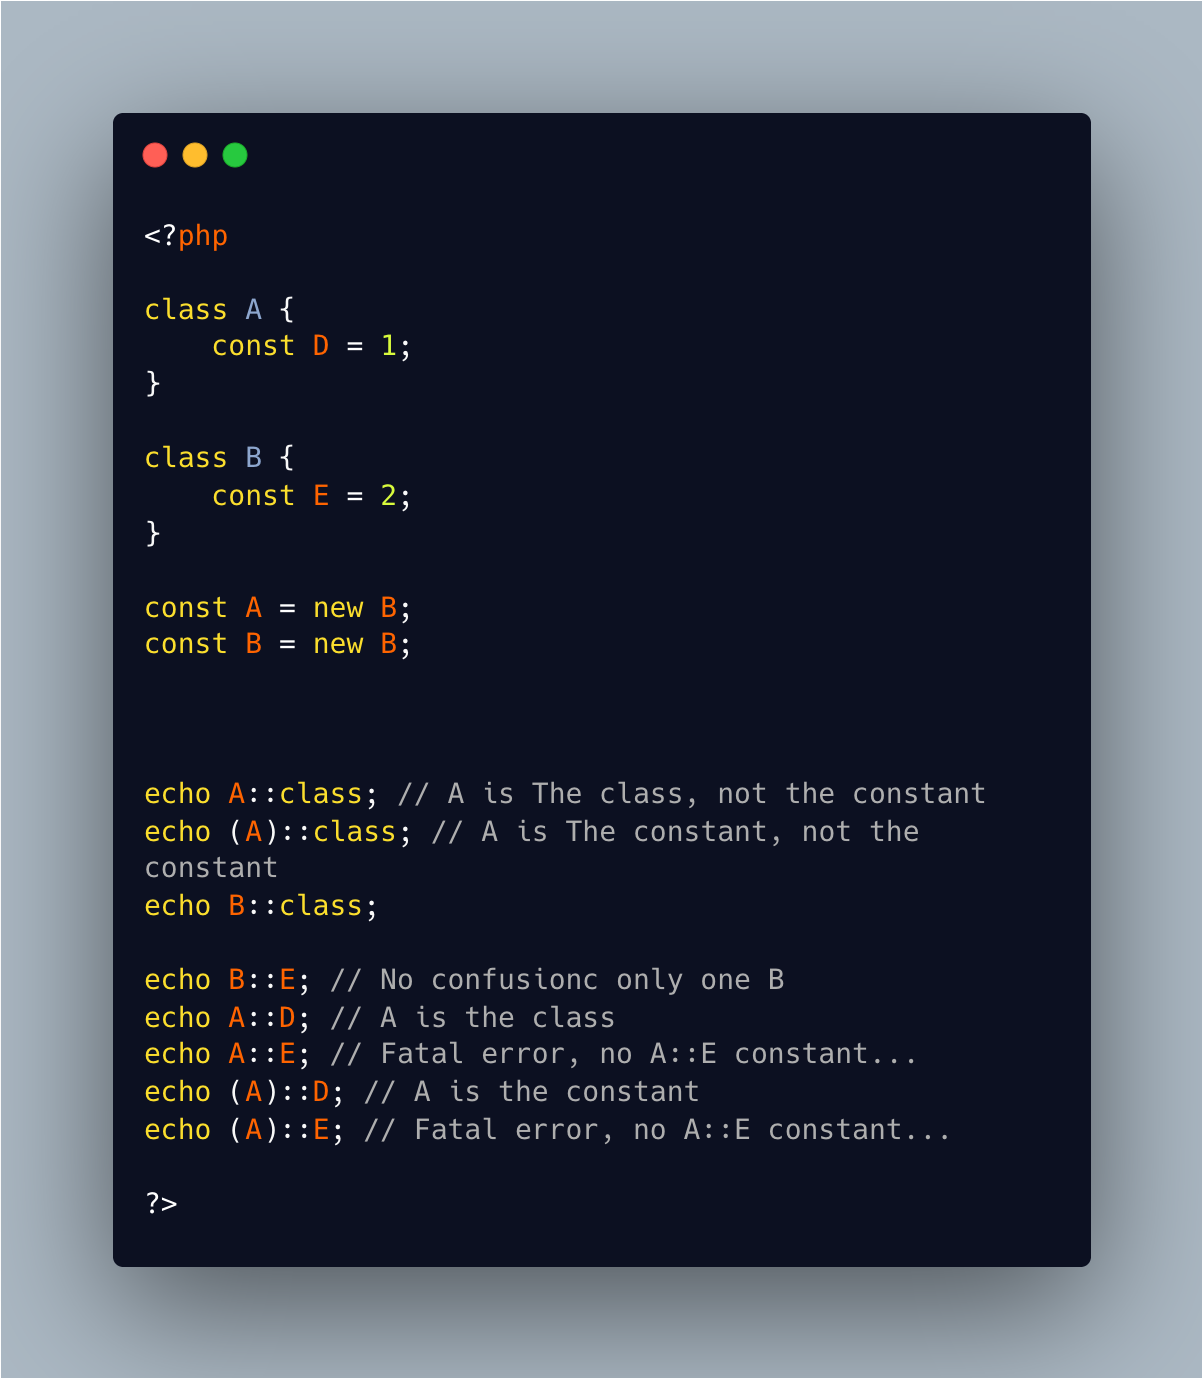
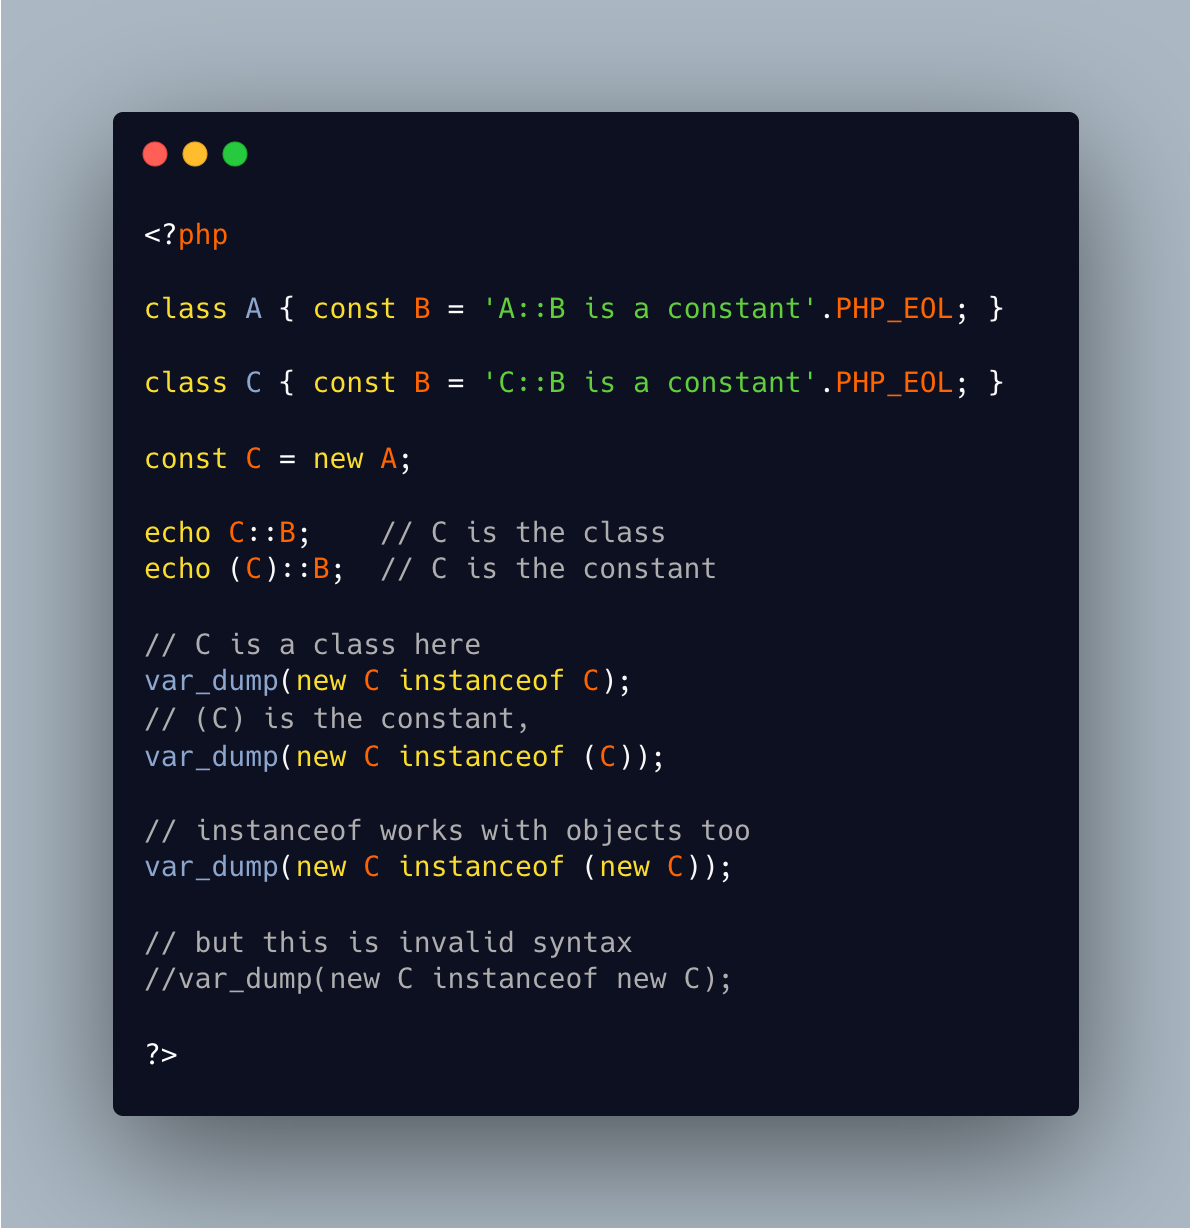
reworked entry about class const confusion

diff --git a/tips/class_const_confusion.rst b/tips/class_const_confusion.rst
@@ -1,42 +1,34 @@
-.. _confusion-between-class-and-const:
+.. _classes-constant-disambiguation-with-parenthesis:
 
-Confusion Between Class And Const
----------------------------------
+Classes Constant Disambiguation With Parenthesis
+------------------------------------------------
 
 .. meta::
 	:description:
-		Confusion Between Class And Const: The ``::`` operator works both on class names, and constants.
+		Classes Constant Disambiguation With Parenthesis: The ``::`` operator and the ``instanceof`` operators work on class names only.
 	:twitter:card: summary_large_image
 	:twitter:site: @exakat
-	:twitter:title: Confusion Between Class And Const
-	:twitter:description: Confusion Between Class And Const: The ``::`` operator works both on class names, and constants
+	:twitter:title: Classes Constant Disambiguation With Parenthesis
+	:twitter:description: Classes Constant Disambiguation With Parenthesis: The ``::`` operator and the ``instanceof`` operators work on class names only
 	:twitter:creator: @exakat
 	:twitter:image:src: https://php-tips.readthedocs.io/en/latest/_images/class_const_confusion.png
 	:og:image: https://php-tips.readthedocs.io/en/latest/_images/class_const_confusion.png
-	:og:title: Confusion Between Class And Const
+	:og:title: Classes Constant Disambiguation With Parenthesis
 	:og:type: article
-	:og:description: The ``::`` operator works both on class names, and constants
+	:og:description: The ``::`` operator and the ``instanceof`` operators work on class names only
 	:og:url: https://php-tips.readthedocs.io/en/latest/tips/class_const_confusion.html
 	:og:locale: en
 
 .. raw:: html
 
-	<script type="application/ld+json">{"@context":"https:\/\/schema.org","@graph":[{"@type":"WebPage","@id":"https:\/\/php-tips.readthedocs.io\/en\/latest\/tips\/class_const_confusion.html","url":"https:\/\/php-tips.readthedocs.io\/en\/latest\/tips\/class_const_confusion.html","name":"Confusion Between Class And Const","isPartOf":{"@id":"https:\/\/www.exakat.io\/"},"datePublished":"Fri, 07 Mar 2025 10:14:19 +0000","dateModified":"Fri, 07 Mar 2025 10:14:19 +0000","description":"The ``::`` operator works both on class names, and constants","inLanguage":"en-US","potentialAction":[{"@type":"ReadAction","target":["https:\/\/php-tips.readthedocs.io\/en\/latest\/tips\/class_const_confusion.html"]}]},{"@type":"WebSite","@id":"https:\/\/www.exakat.io\/","url":"https:\/\/www.exakat.io\/","name":"Exakat","description":"Smart PHP static analysis","inLanguage":"en-US"}]}</script>
+	<script type="application/ld+json">{"@context":"https:\/\/schema.org","@graph":[{"@type":"WebPage","@id":"https:\/\/php-tips.readthedocs.io\/en\/latest\/tips\/class_const_confusion.html","url":"https:\/\/php-tips.readthedocs.io\/en\/latest\/tips\/class_const_confusion.html","name":"Classes Constant Disambiguation With Parenthesis","isPartOf":{"@id":"https:\/\/www.exakat.io\/"},"datePublished":"Fri, 07 Mar 2025 18:34:36 +0000","dateModified":"Fri, 07 Mar 2025 18:34:36 +0000","description":"The ``::`` operator and the ``instanceof`` operators work on class names only","inLanguage":"en-US","potentialAction":[{"@type":"ReadAction","target":["https:\/\/php-tips.readthedocs.io\/en\/latest\/tips\/class_const_confusion.html"]}]},{"@type":"WebSite","@id":"https:\/\/www.exakat.io\/","url":"https:\/\/www.exakat.io\/","name":"Exakat","description":"Smart PHP static analysis","inLanguage":"en-US"}]}</script>
 
-The ``::`` operator works both on class names, and constants. The later is a mix of PHP evolution: first, PHP 8.0 allowed ``::class`` on variables, and then PHP 8.2 allowed constants to hold objects.
-
-This means that the left operand of ``::`` may be a class name, or a constant. And there are two different namespaces for constants and classes, so code may hold both a class ``A`` and a constant ``A``.
-
-In case of ambiguity, the class has priority over the constant. ``A::class`` is the name of the class, not the name of the class of the constant's value.
-
-And, at the same time, when there is only a constant, it's value is used as a base.
-
-For disambiguation purposes, parenthesis are your friends.
+The ``::`` operator and the ``instanceof`` operators work on class names only. Even if a constant with the same name holds an object, it is not used unless being dereferenced, via usage of parenthesis.
 
 .. image:: ../images/class_const_confusion.png
 
 See Also
 ________
 
-* `Class Constant Confusion <https://3v4l.org/IUG8L>`_
+* `Classes Only <https://3v4l.org/XsH0k>`_
 

diff --git a/tips/cast_to_int.rst b/tips/cast_to_int.rst
@@ -21,8 +21,14 @@ Another Cast To Int
 
 .. raw:: html
 
-	<script type="application/ld+json">{"@context":"https:\/\/schema.org","@graph":[{"@type":"WebPage","@id":"https:\/\/php-tips.readthedocs.io\/en\/latest\/tips\/cast_to_int.html","url":"https:\/\/php-tips.readthedocs.io\/en\/latest\/tips\/cast_to_int.html","name":"Another Cast To Int","isPartOf":{"@id":"https:\/\/www.exakat.io\/"},"datePublished":"Tue, 26 Nov 2024 21:54:38 +0000","dateModified":"Tue, 26 Nov 2024 21:54:38 +0000","description":"Another way to cast a value to int, besides the obvious ``(int)`` operator and the classic ``+ 0``, is to use the unary operator ``+`` operator on a variable: it add a sign operation on the variable, and the ``+`` sign is invariant: yet, the content of the variable is turned into an integer","inLanguage":"en-US","potentialAction":[{"@type":"ReadAction","target":["https:\/\/php-tips.readthedocs.io\/en\/latest\/tips\/cast_to_int.html"]}]},{"@type":"WebSite","@id":"https:\/\/www.exakat.io\/","url":"https:\/\/www.exakat.io\/","name":"Exakat","description":"Smart PHP static analysis","inLanguage":"en-US"}]}</script>
+	<script type="application/ld+json">{"@context":"https:\/\/schema.org","@graph":[{"@type":"WebPage","@id":"https:\/\/php-tips.readthedocs.io\/en\/latest\/tips\/cast_to_int.html","url":"https:\/\/php-tips.readthedocs.io\/en\/latest\/tips\/cast_to_int.html","name":"Another Cast To Int","isPartOf":{"@id":"https:\/\/www.exakat.io\/"},"datePublished":"Fri, 07 Mar 2025 18:36:14 +0000","dateModified":"Fri, 07 Mar 2025 18:36:14 +0000","description":"Another way to cast a value to int, besides the obvious ``(int)`` operator and the classic ``+ 0``, is to use the unary operator ``+`` operator on a variable: it add a sign operation on the variable, and the ``+`` sign is invariant: yet, the content of the variable is turned into an integer","inLanguage":"en-US","potentialAction":[{"@type":"ReadAction","target":["https:\/\/php-tips.readthedocs.io\/en\/latest\/tips\/cast_to_int.html"]}]},{"@type":"WebSite","@id":"https:\/\/www.exakat.io\/","url":"https:\/\/www.exakat.io\/","name":"Exakat","description":"Smart PHP static analysis","inLanguage":"en-US"}]}</script>
 
 Another way to cast a value to int, besides the obvious ``(int)`` operator and the classic ``+ 0``, is to use the unary operator ``+`` operator on a variable: it add a sign operation on the variable, and the ``+`` sign is invariant: yet, the content of the variable is turned into an integer.
 
 .. image:: ../images/cast_to_int.png
+
+See Also
+________
+
+* `Another cast to int <https://3v4l.org/qmWik>`_
+

diff --git a/tips/null_equal_false.rst b/tips/null_equal_false.rst
@@ -21,10 +21,16 @@ null Does Not Always Equal false
 
 .. raw:: html
 
-	<script type="application/ld+json">{"@context":"https:\/\/schema.org","@graph":[{"@type":"WebPage","@id":"https:\/\/php-tips.readthedocs.io\/en\/latest\/tips\/null_equal_false.html","url":"https:\/\/php-tips.readthedocs.io\/en\/latest\/tips\/null_equal_false.html","name":"null Does Not Always Equal false","isPartOf":{"@id":"https:\/\/www.exakat.io\/"},"datePublished":"Sun, 18 Feb 2024 02:27:44 +0000","dateModified":"Sun, 18 Feb 2024 02:27:44 +0000","description":"null equals false, so the first equality is actually true","inLanguage":"en-US","potentialAction":[{"@type":"ReadAction","target":["https:\/\/php-tips.readthedocs.io\/en\/latest\/tips\/null_equal_false.html"]}]},{"@type":"WebSite","@id":"https:\/\/www.exakat.io\/","url":"https:\/\/www.exakat.io\/","name":"Exakat","description":"Smart PHP static analysis","inLanguage":"en-US"}]}</script>
+	<script type="application/ld+json">{"@context":"https:\/\/schema.org","@graph":[{"@type":"WebPage","@id":"https:\/\/php-tips.readthedocs.io\/en\/latest\/tips\/null_equal_false.html","url":"https:\/\/php-tips.readthedocs.io\/en\/latest\/tips\/null_equal_false.html","name":"null Does Not Always Equal false","isPartOf":{"@id":"https:\/\/www.exakat.io\/"},"datePublished":"Fri, 07 Mar 2025 18:38:59 +0000","dateModified":"Fri, 07 Mar 2025 18:38:59 +0000","description":"null equals false, so the first equality is actually true","inLanguage":"en-US","potentialAction":[{"@type":"ReadAction","target":["https:\/\/php-tips.readthedocs.io\/en\/latest\/tips\/null_equal_false.html"]}]},{"@type":"WebSite","@id":"https:\/\/www.exakat.io\/","url":"https:\/\/www.exakat.io\/","name":"Exakat","description":"Smart PHP static analysis","inLanguage":"en-US"}]}</script>
 
 null equals false, so the first equality is actually true.
 
 On the other hand, using null and false as keys in an array, lead them to be cast to string: they end up being different, and that allows two elements to be stored in the array.
 
 .. image:: ../images/null_equal_false.png
+
+See Also
+________
+
+* `null and false are in an array <https://3v4l.org/av7e9>`_
+
